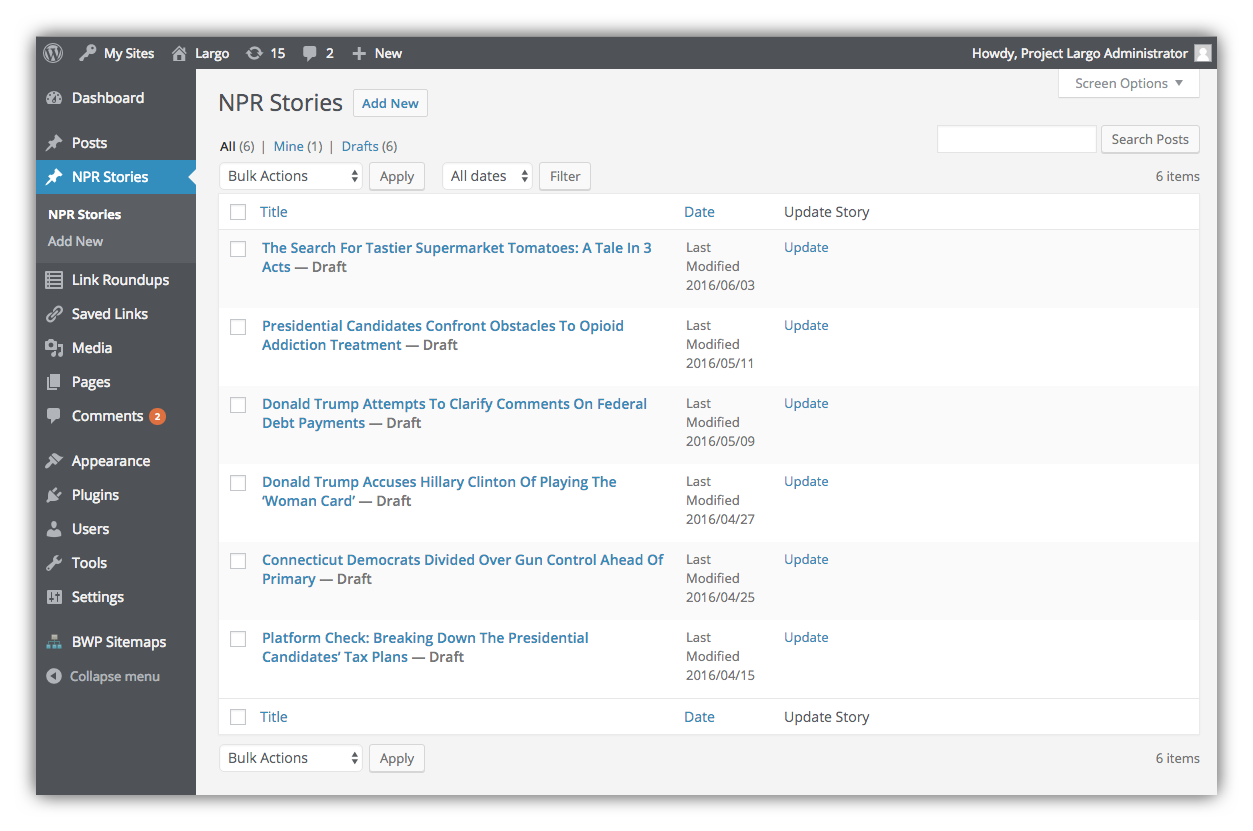
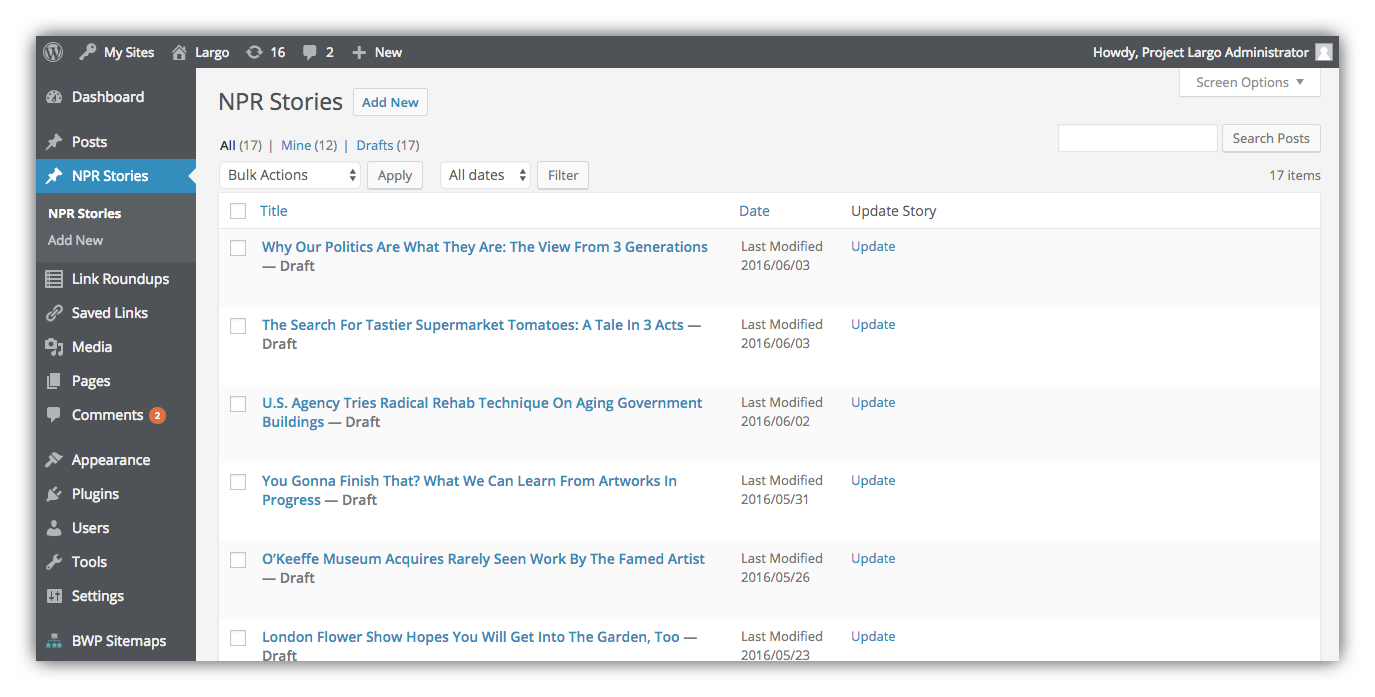
add last section on editing NPR Stories

diff --git a/docs/pulling.md b/docs/pulling.md
@@ -50,10 +50,20 @@ After you click the button to create your API call, you'll find the full URL of 
 
 Now copy the API call string up to the last segment `&apiKey=demo`. Do not include this in copying the query string. _(That segment would only be useful if you were going to run the query in the Query Generator itself, which we're not doing here.)_
 
-Now that you've created and copied a query string, return to your **WordPress Dashboard > Settings > NPR API Git Multi** and paste the string into one of the Query String fields. Use the dropdown menu to set whether stories returned from the API should be saved as Drafts or Posts:
+Now that you've created and copied a query string, return to your **WordPress Dashboard > Settings > NPR API Get Multi** and paste the string into one of the Query String fields. Use the dropdown menu to set whether stories returned from the API should be saved as Drafts or Posts:
 
 ![a query URL entered in the Query String field in WordPress](/assets/npr-api-multiple-get-settings.png)
 
 When you click **Save Changes**, WordPress will begin pulling NPR API content. Note that it may take up to an hour before stories begin showing up as Posts or Drafts.
 
 You can add more queries any time. If you run out of Query String fields, just increase the **Number of things to get** setting to add more fields.
+
+## Where to Find the Pulled Stories 
+
+If in **Settings > NPR API >NPR Pull Post Type** you selected a post type for pulled content, you'll find pulled stories in the WordPress screen for that post type. For example if you selected `npr_story_post` as the NPR Pull Post Type, WordPress will store pulled stories in the NPR Stories screen:
+
+![NPR Stories screen in WordPress showing pulled stories](/npr-stories.png)
+
+Now you can edit the pulled story much like any other WordPress post. Although note that unlike regular WordPress posts, you can't add Categories or Tags to NPR Stories.
+
+![Editing an NPR story pulled from the API into WordPress](/edit-api-post.png)
